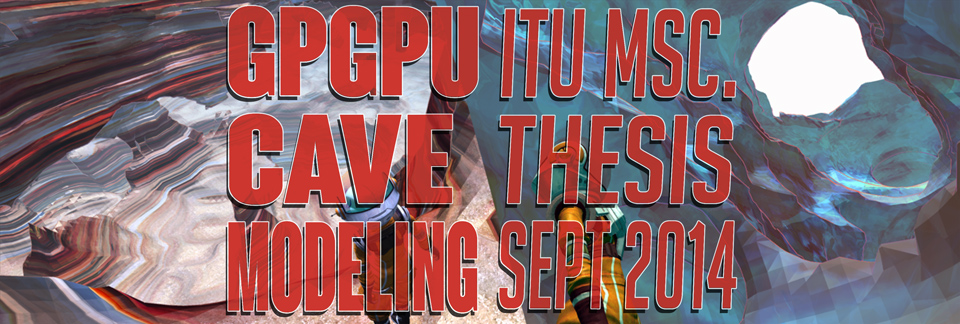
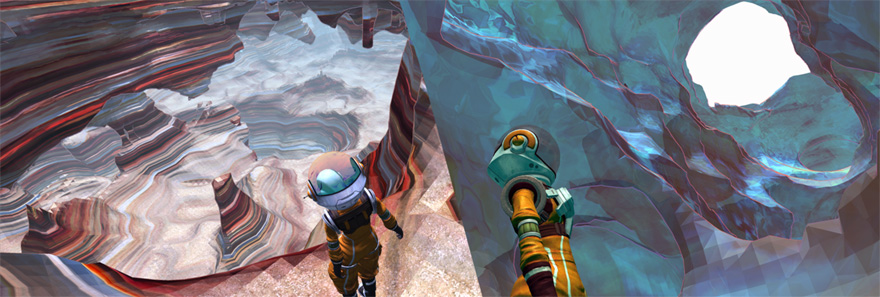
Testing out new project headers.

diff --git a/css/style.css b/css/style.css
@@ -643,13 +643,13 @@ button {  width: auto; overflow: visible; }
 	overflow: visible;
 	/*height: 168px;*/
 	/*height: 165px;*/
-	height: 117px;
+	height: 116px;
 	/*width: 920px;*/
 	/*width: 750px;*/
 	width: 522px;
 	
 	/*line-height: 120px;*/
-	line-height: 98px;
+	line-height: 97px;
 
 	/*left: -86px;*//*-83px;*//*7px;*/ 
 	left: -183px;/*-83px;*//*7px;*/ 
@@ -663,7 +663,7 @@ button {  width: auto; overflow: visible; }
 	/*margin-top: -25px;*/
 	/*margin-top: -47px;*/
 	/*margin-top: -13px;*/
-	margin-top: -5px;
+	margin-top: -4px;
 	
 	/*border-right: 1px solid #fff;*/
 	font-family: BebasNeuewebfont, DinBold, ChineseRocksRegular, sans-serif;
@@ -679,12 +679,15 @@ button {  width: auto; overflow: visible; }
 	/*color: rgba(187,165,139,1);*/
 	/*color: rgba(178,139,105,1);*/
 	/*color: rgba(180,139,105,1);*/
-	/* Permalink - use to edit and share this gradient: http://colorzilla.com/gradient-editor/#dee2e1+0,f7e8e8+100 */
-background: #dee2e1; /* Old browsers */
-background: -moz-linear-gradient(top,  #dee2e1 0%, #f7e8e8 100%); /* FF3.6-15 */
-background: -webkit-linear-gradient(top,  #dee2e1 0%,#f7e8e8 100%); /* Chrome10-25,Safari5.1-6 */
-background: linear-gradient(to bottom,  #dee2e1 0%,#f7e8e8 100%); /* W3C, IE10+, FF16+, Chrome26+, Opera12+, Safari7+ */
-filter: progid:DXImageTransform.Microsoft.gradient( startColorstr='#dee2e1', endColorstr='#f7e8e8',GradientType=0 ); /* IE6-9 */
+	/*http://colorzilla.com/gradient-editor/#dee2e1+0,f7e8e8+100*/
+	
+/* Permalink - use to edit and share this gradient: http://colorzilla.com/gradient-editor/#daddf2+0,eadcdc+100 */
+background: #daddf2; /* Old browsers */
+background: -moz-linear-gradient(-45deg,  #daddf2 0%, #eadcdc 100%); /* FF3.6-15 */
+background: -webkit-linear-gradient(-45deg,  #daddf2 0%,#eadcdc 100%); /* Chrome10-25,Safari5.1-6 */
+background: linear-gradient(135deg,  #daddf2 0%,#eadcdc 100%); /* W3C, IE10+, FF16+, Chrome26+, Opera12+, Safari7+ */
+filter: progid:DXImageTransform.Microsoft.gradient( startColorstr='#daddf2', endColorstr='#eadcdc',GradientType=1 ); /* IE6-9 fallback on horizontal gradient */
+
 /*
 	-webkit-background-clip: text;
 	 -webkit-text-fill-color: transparent;
@@ -958,12 +961,12 @@ filter: progid:DXImageTransform.Microsoft.gradient( startColorstr='#dee2e1', end
 	 
 
 	 
-/* Permalink - use to edit and share this gradient: http://colorzilla.com/gradient-editor/#f4efef+0,f9eaea+100 */
-background: #f4efef; /* Old browsers */
-background: -moz-linear-gradient(top,  #f4efef 0%, #f9eaea 100%); /* FF3.6-15 */
-background: -webkit-linear-gradient(top,  #f4efef 0%,#f9eaea 100%); /* Chrome10-25,Safari5.1-6 */
-background: linear-gradient(to bottom,  #f4efef 0%,#f9eaea 100%); /* W3C, IE10+, FF16+, Chrome26+, Opera12+, Safari7+ */
-filter: progid:DXImageTransform.Microsoft.gradient( startColorstr='#f4efef', endColorstr='#f9eaea',GradientType=0 ); /* IE6-9 */
+/* Permalink - use to edit and share this gradient: http://colorzilla.com/gradient-editor/#e8dcde+0,daddf2+100 */
+background: #e8dcde; /* Old browsers */
+background: -moz-linear-gradient(-45deg,  #e8dcde 0%, #daddf2 100%); /* FF3.6-15 */
+background: -webkit-linear-gradient(-45deg,  #e8dcde 0%,#daddf2 100%); /* Chrome10-25,Safari5.1-6 */
+background: linear-gradient(135deg,  #e8dcde 0%,#daddf2 100%); /* W3C, IE10+, FF16+, Chrome26+, Opera12+, Safari7+ */
+filter: progid:DXImageTransform.Microsoft.gradient( startColorstr='#e8dcde', endColorstr='#daddf2',GradientType=1 ); /* IE6-9 fallback on horizontal gradient */
 
 
  }
@@ -972,12 +975,12 @@ filter: progid:DXImageTransform.Microsoft.gradient( startColorstr='#f4efef', end
 
 	 	 margin-bottom:-1px;
 	 
-/* Permalink - use to edit and share this gradient: http://colorzilla.com/gradient-editor/#f7f7f7+0,f4efef+100 */
-background: #f7f7f7; /* Old browsers */
-background: -moz-linear-gradient(-45deg,  #f7f7f7 0%, #f4efef 100%); /* FF3.6-15 */
-background: -webkit-linear-gradient(-45deg,  #f7f7f7 0%,#f4efef 100%); /* Chrome10-25,Safari5.1-6 */
-background: linear-gradient(135deg,  #f7f7f7 0%,#f4efef 100%); /* W3C, IE10+, FF16+, Chrome26+, Opera12+, Safari7+ */
-filter: progid:DXImageTransform.Microsoft.gradient( startColorstr='#f7f7f7', endColorstr='#f4efef',GradientType=1 ); /* IE6-9 fallback on horizontal gradient */
+/* Permalink - use to edit and share this gradient: http://colorzilla.com/gradient-editor/#eadcdc+0,dbddf0+100 */
+background: #eadcdc; /* Old browsers */
+background: -moz-linear-gradient(-45deg,  #eadcdc 0%, #dbddf0 100%); /* FF3.6-15 */
+background: -webkit-linear-gradient(-45deg,  #eadcdc 0%,#dbddf0 100%); /* Chrome10-25,Safari5.1-6 */
+background: linear-gradient(135deg,  #eadcdc 0%,#dbddf0 100%); /* W3C, IE10+, FF16+, Chrome26+, Opera12+, Safari7+ */
+filter: progid:DXImageTransform.Microsoft.gradient( startColorstr='#eadcdc', endColorstr='#dbddf0',GradientType=1 ); /* IE6-9 fallback on horizontal gradient */
 
  }
  
@@ -2439,7 +2442,7 @@ filter: progid:DXImageTransform.Microsoft.gradient( startColorstr='#f7f7f7', end
 
 #decoBar2{
 		/*top: -9px;*/
-		top: -17px;
+		top: -16px;
 		position: absolute;
 		z-index: 100;
 		height: 5px;
@@ -2795,6 +2798,94 @@ filter: progid:DXImageTransform.Microsoft.gradient( startColorstr='#f7f7f7', end
 #icontent::-webkit-scrollbar, .projZen::-webkit-scrollbar{ 
     display: none; 
 }
+
+#projHeaderRoot{
+	font-family: BebasNeuewebfont, DinBold, ChineseRocksRegular, sans-serif;
+	/*font-weight: bold;*/
+	text-transform: uppercase;
+	
+	position: absolute;
+	z-index: 100;
+	left:50%;
+	top: 0px;
+	width: 0px;
+	overflow:visible;
+	margin-left: -250px;
+	
+	color: #fce8e9;
+	/*color: #fceeee;*/
+	
+}
+
+#projHeaderPivot{
+	width: 500px;
+	height: 297px;
+	overflow: hidden;
+}
+
+.projHeader1{
+	
+	padding-top: 20px;
+	padding-left: 20px;
+	padding-right: 20px;
+	
+	background-color: rgba(255,255,255,0.2);
+	font-size: 72px;
+	text-shadow:
+	-1px 0px 0px rgba(0,0,0,0.5),
+	0px 1px 0px rgba(0,0,0,0.5),
+	-1px 1px 1px rgba(0,0,0,0.10), 
+	-1px 1px 4px rgba(0,0,0,0.12),
+	0px 1px 2px rgba(0,0,0,0.12),
+	-2px 1px 5px rgba(0,0,0,0.15),
+	-2px 2px 7px rgba(0,0,0,0.25)
+	;
+	
+	line-height: 66px;
+}
+
+.projHeader2{
+	padding-top: 5px;
+	padding-left: 20px;
+	padding-right: 20px;
+		
+	background-color: rgba(255,255,255,0.2);
+	font-size: 54px;
+	text-shadow:
+	-1px 0px 0px rgba(0,0,0,0.5),
+	0px 1px 0px rgba(0,0,0,0.5),
+	-1px 1px 1px rgba(0,0,0,0.10), 
+	-1px 1px 4px rgba(0,0,0,0.12),
+	0px 1px 2px rgba(0,0,0,0.12),
+	-2px 1px 5px rgba(0,0,0,0.15),
+	-2px 2px 7px rgba(0,0,0,0.25)
+	;
+	
+	text-align: right;
+}
+
+.projHeader3{
+	
+	padding-left: 20px;
+	padding-right: 20px;
+	
+	background-color: rgba(255,255,255,0.2);
+	font-size: 54px;
+	text-shadow:
+	-1px 0px 0px rgba(0,0,0,0.5),
+	0px 1px 0px rgba(0,0,0,0.5),
+	-1px 1px 1px rgba(0,0,0,0.10), 
+	-1px 1px 4px rgba(0,0,0,0.12),
+	0px 1px 2px rgba(0,0,0,0.12),
+	-2px 1px 5px rgba(0,0,0,0.15),
+	-2px 2px 7px rgba(0,0,0,0.25)
+	;
+	
+	padding-bottom: 16px;
+	
+	text-align: center;
+}
+
 
 .toptitle{
 	position: absolute;
@@ -3614,7 +3705,8 @@ overflow: visible;
 	-o-transform:scale(0.81,1); 
 	
 	box-shadow:
-	-2px -2px 2px rgba(0,0,0,0.2)
+	-2px -2px 2px rgba(0,0,0,0.2),
+	-3px -3px 3px rgba(0,0,0,0.3);
 }
 .tabs li div a {
 	
@@ -3662,6 +3754,7 @@ overflow: visible;
 	
 	
 
+	
 }
 
 .tabs li a:hover {
@@ -3940,7 +4033,7 @@ overflow: visible;
 	 height: 3em;
 	 /*margin-top: -2.86em;*/
 	 /*margin-top: -3em;*/
-	 margin-top: -7em;
+	 margin-top: -6em;
 
 	padding-bottom: 5em;
 

diff --git a/index.html b/index.html
@@ -133,7 +133,7 @@ background: #e5ede2; #d7dfd4;"-->
 								<br/>
 								I'm an aficionado of <span class="bgHighlight">simulations</span>, <span class="bgHighlight">gameplay</span>,  <span class="bgHighlight">data oriented programming</span>, and like researching <span class="bgHighlight">PCG</span>, <span class="bgHighlight">VFX</span>, and physics or mechanics using <span class="bgHighlight">GPGPU</span>.  </p></span>
 								
-								<span id="openingR"><p><span class="parStart"></span> Science makes the art. I deconstruct and study the layers of techniques behind the state of the art.  I'm learning to come up with the most tractable solutions, and to research new tech which leverages emerging affordances.</p>
+								<span id="openingR"><p><span class="parStart"></span> Science makes the art. I deconstruct the techniques behind the state of the art. I learn to come up with the most tractable solutions, and to research new layers of tech that leverage emerging affordances.</p>
 								
 								<p><span class="parStart"></span><a href="http://www.valvesoftware.com/company/Valve_Handbook_LowRes.pdf" rel="nofollow" target="_blank">Valve's handbook</a> discusses the need for devs with deep expertise as well as a high breadth of skills, and that an interest in different parts of the spectrum brings all sorts of totally <span class="bgHighlight">rad things</span>.
 								</p></span>

diff --git a/default.html b/default.html
@@ -75,7 +75,7 @@
 								<br/>
 								I'm an aficionado of <span class="bgHighlight">simulations</span>, <span class="bgHighlight">gameplay</span>,  <span class="bgHighlight">data oriented programming</span>, and like researching <span class="bgHighlight">PCG</span>, <span class="bgHighlight">VFX</span>, and physics or mechanics using <span class="bgHighlight">GPGPU</span>.  </p></span>
 								
-								<span id="openingR"><p><span class="parStart"></span> Science makes the art. I deconstruct and study the layers of techniques behind the state of the art.  I'm learning to come up with the most tractable solutions, and to research new tech which leverages emerging affordances.</p>
+								<span id="openingR"><p><span class="parStart"></span> Science makes the art. I deconstruct the techniques behind the state of the art. I learn to come up with the most tractable solutions, and to research new layers of tech that leverage emerging affordances.</p>
 								
 								<p><span class="parStart"></span><a href="http://www.valvesoftware.com/company/Valve_Handbook_LowRes.pdf" rel="nofollow" target="_blank">Valve's handbook</a> discusses the need for devs with deep expertise as well as a high breadth of skills, and that an interest in different parts of the spectrum brings all sorts of totally <span class="bgHighlight">rad things</span>.
 								</p></span>

diff --git a/project/dadiu/index.html b/project/dadiu/index.html
@@ -42,6 +42,12 @@
 						<img class="soloImg" src="./images/titleBg.jpg" style="width:100%;"/>
 						<div class="shadBott sLeft shadLeft"></div>
 						<div class="shadBott sRight shadRight"></div> 
+						
+						<div id="projHeader">
+							<div class="projHeader1">DADIU Tablet Productions</div>
+							<div class="projHeader2">3Mo Work at Danish Academy</div>
+							<div class="projHeader3">Dec 2013</div>
+						</div>
 					</div>
 					<div id="toptitleBg">
 						<span id="loading"><div  class="loader"></div><div  class="loader loader2"style=""></div><div  class="loader loader3"style=""></div></span>  

diff --git a/project/leap/index.html b/project/leap/index.html
@@ -42,6 +42,12 @@
 						<img class="soloImg" src="./images/titleBg.jpg" style="width:100%;"/>
 						<div class="shadBott sLeft shadLeft"></div>
 						<div class="shadBott sRight shadRight"></div> 
+						
+						<div id="projHeader">
+							<div class="projHeader1">Leap Puzzle Platformer</div>
+							<div class="projHeader2">ITU 3Mo 4Man Dev Project</div>
+							<div class="projHeader3">Dec 2012</div>
+						</div>
 					</div>
 					<div id="toptitleBg">
 						<span id="loading"><div  class="loader"></div><div  class="loader loader2"style=""></div><div  class="loader loader3"style=""></div></span>  

diff --git a/project/holo/index.html b/project/holo/index.html
@@ -42,6 +42,12 @@
 						<img class="soloImg" src="./images/titleBg.jpg" style="width:100%;"/>
 						<div class="shadBott sLeft shadLeft"></div>
 						<div class="shadBott sRight shadRight"></div> 
+						
+						<div id="projHeader">
+							<div class="projHeader1">Holosuit Game Concept</div>
+							<div class="projHeader2">ITU Mini Solo Project</div>
+							<div class="projHeader3">June 2013</div>
+						</div>
 					</div>
 					<div id="toptitleBg">
 						<span id="loading"><div  class="loader"></div><div  class="loader loader2"style=""></div><div  class="loader loader3"style=""></div></span>  

diff --git a/project/bshadows/index.html b/project/bshadows/index.html
@@ -42,6 +42,12 @@
 						<img class="soloImg" src="./images/titleBg.jpg" style="width:100%;"/>
 						<div class="shadBott sLeft shadLeft"></div>
 						<div class="shadBott sRight shadRight"></div> 
+						
+						<div id="projHeader">
+							<div class="projHeader1">Broken Shadows Alpha</div>
+							<div class="projHeader2">3Mo, 5Man dev project</div>
+							<div class="projHeader3">June 2013</div>
+						</div>
 					</div>
 					<div id="toptitleBg">
 						<span id="loading"><div  class="loader"></div><div  class="loader loader2"style=""></div><div  class="loader loader3"style=""></div></span>  

diff --git a/project/pendulum/index.html b/project/pendulum/index.html
@@ -66,6 +66,12 @@
 						<img class="soloImg" src="./images/titleBg.jpg" style="width:100%;"/>
 						<div class="shadBott sLeft shadLeft"></div>
 						<div class="shadBott sRight shadRight"></div> 
+						
+						<div id="projHeader">
+							<div class="projHeader1">Pendulum Game Prototype</div>
+							<div class="projHeader2">3 week solo project</div>
+							<div class="projHeader3">Oct 2013</div>
+						</div>
 					</div>
 					<div id="toptitleBg">
 						<span id="loading"><div  class="loader"></div><div  class="loader loader2"style=""></div><div  class="loader loader3"style=""></div></span>  

diff --git a/project/particles/index.html b/project/particles/index.html
@@ -42,6 +42,12 @@
 						<img class="soloImg" src="./images/titleBg.jpg" style="width:100%;"/>
 						<div class="shadBott sLeft shadLeft"></div>
 						<div class="shadBott sRight shadRight"></div> 
+						
+						<div id="projHeader">
+							<div class="projHeader1">GPGPU N-Body Particles</div>
+							<div class="projHeader2">Weekend Project</div>
+							<div class="projHeader3">Dec 2013</div>
+						</div>
 					</div>
 					<div id="toptitleBg">
 						<span id="loading"><div  class="loader"></div><div  class="loader loader2"style=""></div><div  class="loader loader3"style=""></div></span>  

diff --git a/project/gpgpu/index.html b/project/gpgpu/index.html
@@ -42,6 +42,12 @@
 						<img class="soloImg" src="./images/titleBg.jpg" style="width:100%;"/>
 						<div class="shadBott sLeft shadLeft"></div>
 						<div class="shadBott sRight shadRight"></div> 
+						
+						<div id="projHeader">
+							<div class="projHeader1">GPGPU Cave Modeling</div>
+							<div class="projHeader2">ITU MSc. Thesis</div>
+							<div class="projHeader3">Sept 2014</div>
+						</div>
 					</div>
 					<div id="toptitleBg">
 						<span id="loading"><div  class="loader"></div><div  class="loader loader2"style=""></div><div  class="loader loader3"style=""></div></span>  
